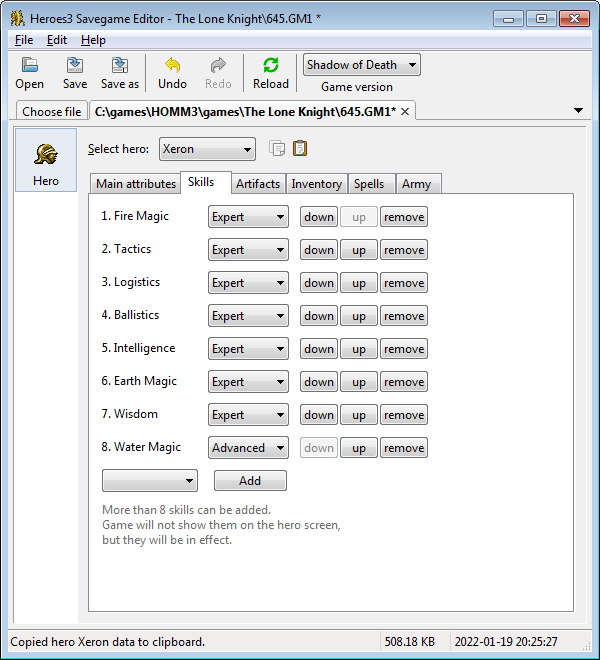
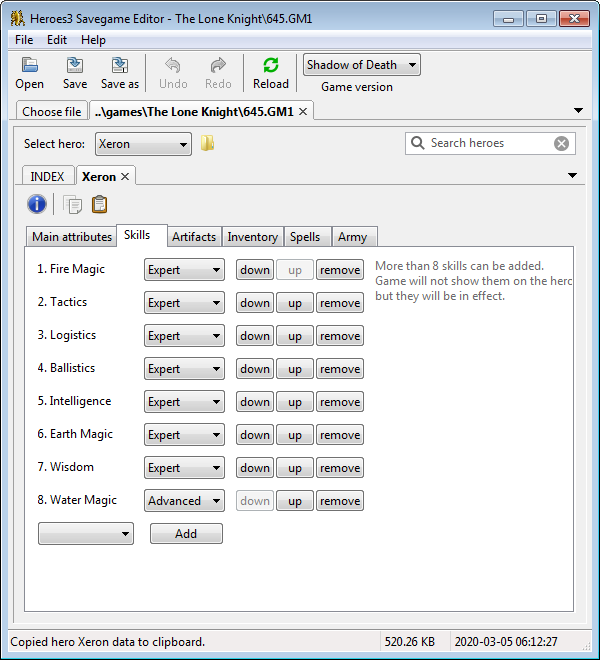
Update texts and screenshot to v1.6.

diff --git a/index.html b/index.html
@@ -40,9 +40,9 @@
           <a href="https://github.com/suurjaak/h3sed">View the Project on GitHub <small>suurjaak/h3sed</small></a>
 
           <ul>
-            <li><a href="https://erki.lap.ee/downloads/h3sed/h3sed_1.0_setup.exe">Download <strong>Setup</strong></a></li>
-            <li><a href="https://erki.lap.ee/downloads/h3sed/h3sed_1.0_x64_setup.exe">Download <strong>64bit Setup</strong></a></li>
-            <li><a href="https://erki.lap.ee/downloads/h3sed/h3sed_1.0-src.zip">Download <strong>Source</strong></a></li>
+            <li><a href="https://erki.lap.ee/downloads/h3sed/h3sed_1.6_setup.exe">Download <strong>Setup</strong></a></li>
+            <li><a href="https://erki.lap.ee/downloads/h3sed/h3sed_1.6_x64_setup.exe">Download <strong>64bit Setup</strong></a></li>
+            <li><a href="https://erki.lap.ee/downloads/h3sed/h3sed_1.6-src.zip">Download <strong>Source</strong></a></li>
           </ul>
         </p>
 
@@ -53,7 +53,7 @@
 
 <p>h3sed is a Heroes3 Savegame Editor, written in Python.</p>
 
-<p>It opens savegame files from Heroes of Might and Magic III, allowing to edit any and all hero attributes:</p>
+<p>It opens savegame files from Heroes of Might and Magic III, allowing to see an overview of all heroes, and edit any and all hero attributes:</p>
 
 <ul>
   <li>primary skills, like Attack</li>
@@ -63,15 +63,18 @@
   <li>artifacts, like Boots of Speed, both worn and inventory items</li>
   <li>spells, like Slow</li>
   <li>army creatures, like Golden Dragons</li>
-  <li>Attributes can be copied from one hero and pasted to another.</li>
 </ul>
+
+<p>Attributes can be copied from one hero and pasted to another.</p>
 
 <p>Supports savegames from Shadow of Death and Horn of the Abyss.</p>
 
 
 <h2 id="using-the-program">Using The Program</h2>
 
-<p>Navigate the file view to Heroes3 games-folder, and open a savegame file to edit.<p>
+<p>Navigate the file view to Heroes3 games-folder, and open a savegame file to edit,
+or drag and drop a savegame file onto the program window.
+.<p>
 
 <p>Choose a hero to modify, change attributes to your liking, and save the file. Changes will be available in Heroes3 after loading the changed savegame.</p>
 
@@ -83,7 +86,8 @@
 
 <p><b>Warning:</b> as Heroes3 savefile format is not publicly known, loaded data and saved results may be invalid and cause problems in game. This program is based on unofficial information gathered from observation and online forums.</p>
 
-<p>Always choose the correct game version. A wrong choice will result in file data being misinterpreted, and saving later version items or creatures to an earlier version savefile may cause the game to crash.</p>
+<p>
+The savegames of Shadow of Death and Horn of the Abyss are not mutually compatible. The program tries to auto-detect the version heuristically, but this detection does not guarantee a correct result. Always choose the correct game version. A wrong choice will result in file data being misinterpreted, and saving later version items or creatures to an earlier version savefile may cause the game to crash.</p>
 
 
 <h2 id="installation">Installation</h2>

diff --git a/downloads.html b/downloads.html
@@ -33,9 +33,9 @@
           <a href="https://github.com/suurjaak/h3sed">View the Project on GitHub <small>suurjaak/h3sed</small></a>
 
           <ul>
-            <li><a href="https://erki.lap.ee/downloads/h3sed/h3sed_1.0_setup.exe">Download <strong>Setup</strong></a></li>
-            <li><a href="https://erki.lap.ee/downloads/h3sed/h3sed_1.0_x64_setup.exe">Download <strong>64bit Setup</strong></a></li>
-            <li><a href="https://erki.lap.ee/downloads/h3sed/h3sed_1.0-src.zip">Download <strong>Source</strong></a></li>
+            <li><a href="https://erki.lap.ee/downloads/h3sed/h3sed_1.6_setup.exe">Download <strong>Setup</strong></a></li>
+            <li><a href="https://erki.lap.ee/downloads/h3sed/h3sed_1.6_x64_setup.exe">Download <strong>64bit Setup</strong></a></li>
+            <li><a href="https://erki.lap.ee/downloads/h3sed/h3sed_1.6-src.zip">Download <strong>Source</strong></a></li>
           </ul>
         </p>
 
